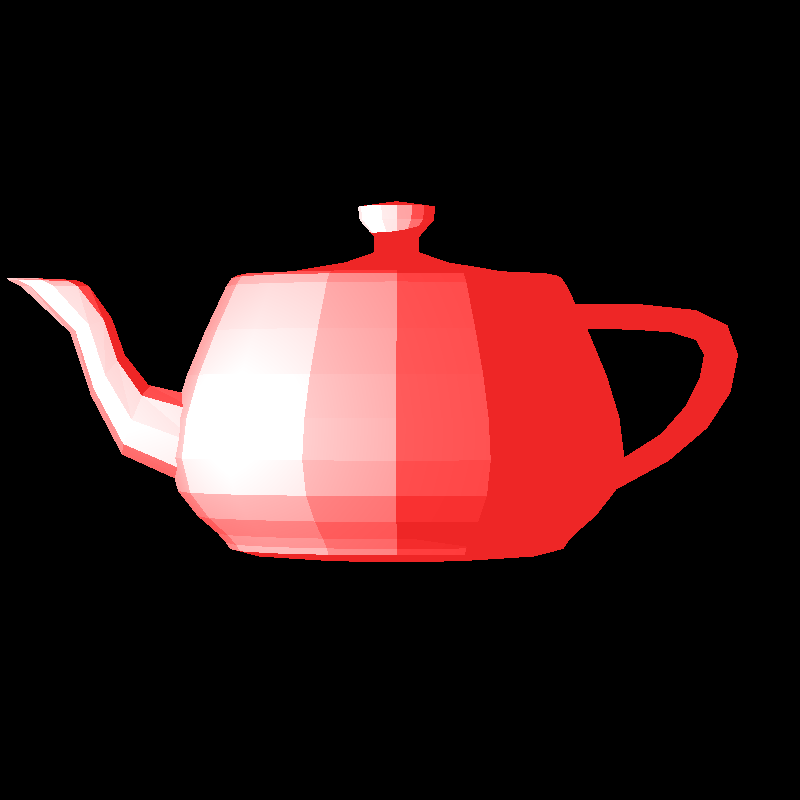
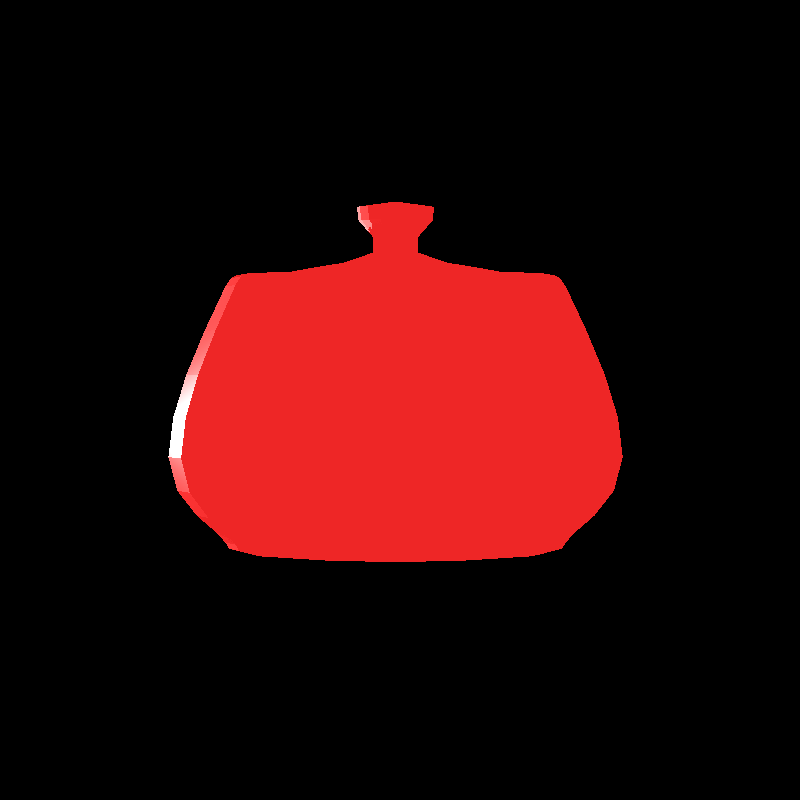
Created javaDoc

Changed region(s): [[0.0, 0.3125, 0.625, 0.7188], [0.7188, 0.375, 0.9375, 0.625], [0.4375, 0.25, 0.5312, 0.3125]]

diff --git a/src/renderer/Pixel.java b/src/renderer/Pixel.java
@@ -1,5 +1,7 @@
 package renderer;
 
+import static java.lang.System.out;
+
 /**
  * Pixel is a helper class. It is used for multi-threading in the renderer and
  * for follow up its progress.<br/>
@@ -32,8 +34,8 @@ class Pixel {
     /**
      * Initialize pixel data for multi-threading
      *
-     * @param maxRows  the amount of pixel rows -ny
-     * @param maxCols  the amount of pixel columns -nx
+     * @param maxRows  the amount of pixel rows
+     * @param maxCols  the amount of pixel columns
      * @param interval print time interval in seconds, 0 if printing is not required
      */
     static void initialize(int maxRows, int maxCols, double interval) {
@@ -65,7 +67,6 @@ class Pixel {
                 col = cCol;
                 return true;
             }
-            //we got to max col, to end of row
             cCol = 0;
             ++cRow;
             if (cRow < maxRows) {
@@ -81,7 +82,6 @@ class Pixel {
      * Finish pixel processing
      */
     static void pixelDone() {
-        //make sure no one does it while i do it
         synchronized (mutexPixels) {
             ++pixels;
         }
@@ -92,20 +92,23 @@ class Pixel {
      * run from the main thread
      */
     public static void waitToFinish() {
-        if (print)
-            System.out.printf(PRINT_FORMAT, 0d);
 
+        out.print("last: "+last+'\n');
+        out.print("totalpixels: "+totalPixels+'\n');
+        if (print)
+            out.printf(PRINT_FORMAT, 0d);
         while (last < totalPixels) {
+            //out.print("hello");
             printPixel();
             try {
                 Thread.sleep(printInterval);
             } catch (InterruptedException ignore) {
                 if (print)
-                    System.out.print("");
+                    out.print("");
             }
         }
         if (print)
-            System.out.println("100.0%");
+            out.println("100.0%");
     }
 
     /**
@@ -118,7 +121,7 @@ class Pixel {
             if (lastPrinted != percentage) {
                 last = current;
                 lastPrinted = percentage;
-                System.out.printf(PRINT_FORMAT, percentage / 10d);
+                out.printf(PRINT_FORMAT, percentage / 10d);
             }
         }
     }

diff --git a/src/renderer/Camera.java b/src/renderer/Camera.java
@@ -52,7 +52,7 @@ public class Camera {
     //ON/OFF button default is off
     private static boolean _MultiThreadingButton = false;
     private static int NUM_OF_THREADS = 1;
-    private double _debugPrint = 0;
+    private double printInterval = 0;
 
     /**
      *  feature of part 9
@@ -238,7 +238,7 @@ public class Camera {
             throw new MissingResourceException("Image creation details are not initialized", "Camera", "Writer details");
         //implementing the multi-threading time improvement of part 9
         if (_MultiThreadingButton) {
-            Pixel.initialize(_imageWriter.getNy(), _imageWriter.getNx(), _debugPrint); //debug print is print interval
+            Pixel.initialize(_imageWriter.getNy(), _imageWriter.getNx(), printInterval); //debug print is print interval
             int threadsCount = 3;
             while (threadsCount-- > 0) {
                 new Thread(() -> {
@@ -255,8 +255,9 @@ public class Camera {
 
                     }
                 }).start();
-            }
-            Pixel.waitToFinish();
+
+            } Pixel.waitToFinish();
+
 
         } else { //when not using multithreading
             //for every row
@@ -718,7 +719,7 @@ public class Camera {
      * @return the camera
      */
     public Camera setDebugPrint(double v) {
-        _debugPrint = v;
+        printInterval = v;
         return this;
     }
 

diff --git a/unittests/renderer/TeapotTest.java b/unittests/renderer/TeapotTest.java
@@ -11,8 +11,6 @@ import scene.Scene;
 
 import java.util.LinkedList;
 
-import static java.awt.Color.YELLOW;
-
 /**
  * Test rendering an image
  *
@@ -21,7 +19,7 @@ import static java.awt.Color.YELLOW;
 public class TeapotTest {
     private final ImageWriter imageWriter = new ImageWriter("teapot", 800, 800);
 
-    private final Camera camera = new Camera(new Point(0, 0, -1000), new Vector(0, 0, 1), new Vector(0, 1, 0)) //
+    private final Camera camera = new Camera(new Point(-1000,0,0), new Vector(1, 0, 0), new Vector(0, 1, 0)) //
             .setVPDistance(1000).setVPSize(200, 200) //
             .setImageWriter(imageWriter) //
             .setMultithreading(3).setDebugPrint(0.1);
